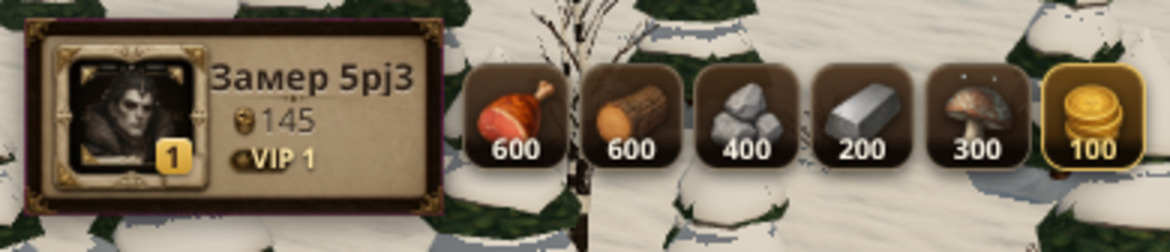
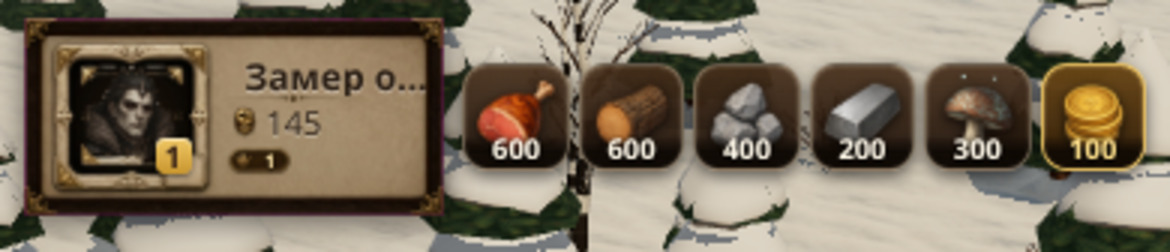
Ник, сила и VIP выровнены по выбранной основе C1 (замер): 52,3 / 57,3 / 54,5–62,3 %

Changed region(s): [[0.1538, 0.25, 0.3692, 0.3889], [0.2154, 0.4167, 0.2769, 0.5556], [0.2154, 0.5833, 0.2769, 0.6667]]

diff --git a/apps/client/src/hud.css b/apps/client/src/hud.css
@@ -161,11 +161,14 @@
 }
 
 .hud-lord .rows .name {
-  left: 44%;
+  /* 52,3 % — левый край надписи в выбранной основе C1 (замер: x 52,31–80,10 % плашки).
+     Раньше было 44 % — ник уезжал к аватару. */
+  left: 52.3%;
   /* до 97 %: справа от имени подложка — ровная кость, длинный ник ложится на неё, а не обрезается */
   right: 3%;
-  top: 25.78%;
-  height: 9.03%;
+  /* 25,6 % / 9,1 % — верх и высота строки ника по C1 (замер: 25,55–34,49 %) */
+  top: 25.6%;
+  height: 9.1%;
   font-size: clamp(10px, 3.1vw, 12.5px);
   line-height: 1.05;
   text-shadow: 0 1px 0 rgba(255, 255, 255, 0.35);
@@ -173,34 +176,43 @@
 
 /* Число силы — сразу за встроенной иконкой (иконка кончается на 55,09 %). */
 .hud-lord .power-row {
-  left: 56%;
+  /* 57,3 % — начало числа силы по C1 (иконка занимает 50,1–55,0 %, число начинается на 57,26 %) */
+  left: 57.3%;
   right: 3%;
-  top: 46%;
-  height: 12.5%;
+  /* 48,9 % / 10,0 % — по C1 (замер: 48,91–58,76 %) */
+  top: 48.9%;
+  height: 10%;
   font-size: clamp(9px, 2.8vw, 11.5px);
   font-variant-numeric: tabular-nums;
   text-shadow: 0 1px 0 rgba(255, 255, 255, 0.35);
 }
 
-/* Строка состояния: число VIP внутри встроенной пилюли + свободное место под будущие бонусы,
-   без кружков и ячеек — как в утверждённом концепте. */
-.hud-lord .state-row {
-  left: 54%;
-  right: 4%;
-  top: 67%;
-  height: 11%;
-  line-height: 1;
-  /* число VIP на 1–2 px выше встроенной пилюли: обрезать его нельзя, иначе цифры сбривает */
-  overflow: visible;
-}
-
-.hud-lord .state-row .vip-num {
-  font-size: clamp(8px, 2.3vw, 9.5px);
+/* Число VIP — ровно в пустой части встроенной пилюли: по подложке n1 корона занимает
+   51,8–54,5 %, пусто под число 54,5–62,3 % по x и 67,8–76,6 % по y.
+   Шрифт — 9,4 % высоты карточки: цифра занимает ~60 % высоты пилюли, как в основе C1. */
+.hud-lord .rows .vip-num {
+  left: 54.5%;
+  width: 7.8%;
+  top: 68%;
+  height: 8.8%;
+  justify-content: center;
+  font-size: clamp(5px, 1.58vw, 11px);
   font-weight: 800;
   line-height: 1;
   color: #ffe6a8;
   white-space: nowrap;
   text-shadow: 0 1px 2px rgba(0, 0, 0, 0.85);
+}
+
+/* Строка состояния: свободное место под будущие бонусы справа от пилюли,
+   без кружков и ячеек — как в утверждённом концепте. */
+.hud-lord .state-row {
+  left: 64%;
+  right: 3%;
+  top: 68%;
+  height: 9%;
+  line-height: 1;
+  overflow: visible;
 }
 
 .hud-lord .state-row .bonuses {

diff --git a/apps/client/src/ui/Hud.tsx b/apps/client/src/ui/Hud.tsx
@@ -134,8 +134,10 @@ export function Hud({
                 иначе на узкой карточке (альбомная ориентация) текст сбривается по вертикали. */}
             <b className="name"><span className="ellip">{me.name}</span></b>
             <span className="power-row"><span className="ellip">{fmt(power)}</span></span>
+            {/* Число VIP — в пустой правой части встроенной пилюли (корона уже в подложке n1):
+                слот 54,5–62,3 % по x и 67,8–76,6 % по y, по замеру самой подложки. */}
+            <b className="vip-num">1</b>
             <span className="state-row">
-              <b className="vip-num">VIP 1</b>
               {/* Место под иконки бонусов: сами иконки появятся со своими системами. */}
               <span className="bonuses" aria-hidden="true" />
             </span>

diff --git a/tools/shots/measure-hud.ts b/tools/shots/measure-hud.ts
@@ -27,7 +27,7 @@ const browser = await puppeteer.launch({
   defaultViewport: {
     width: Number(process.argv[4] ?? 390),
     height: Number(process.argv[5] ?? 844),
-    deviceScaleFactor: 1,
+    deviceScaleFactor: Number(process.argv[6] ?? 1),
     hasTouch: true,
     isMobile: true,
   },
